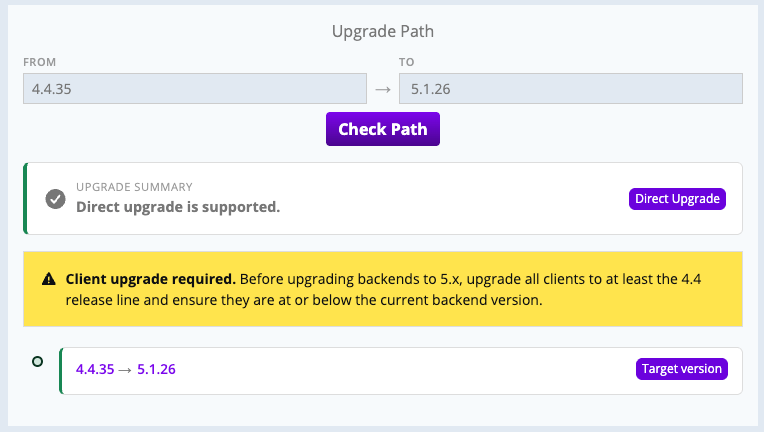
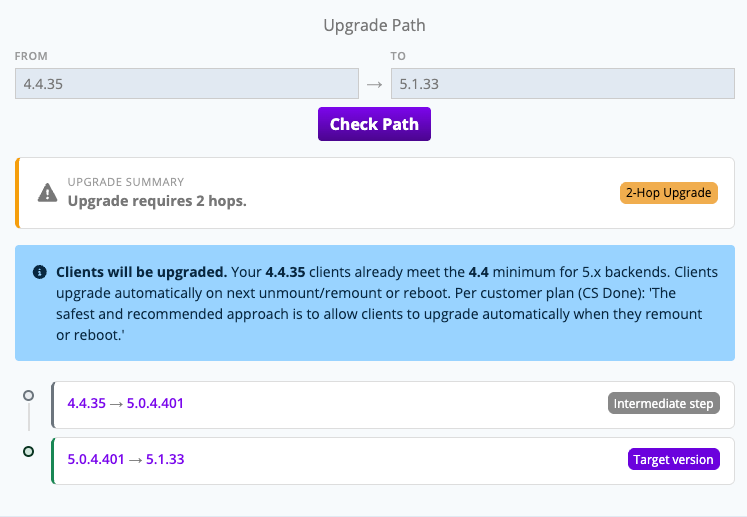
GITBOOK-329: get.weka.io: update images 5.1.33

diff --git a/planning-and-installation/bare-metal/obtaining-the-weka-install-file.md b/planning-and-installation/bare-metal/obtaining-the-weka-install-file.md
@@ -10,56 +10,49 @@ metaLinks:
 
 # Obtain the installation packages
 
-## Register to get.weka.io
+## Register with get.weka.io
 
-Create a [get.weka.io](https://get.weka.io/ui/dashboard) account before you download installation files. If you already have an account, skip this section.
+Register with [get.weka.io](https://get.weka.io/ui/dashboard) before downloading installation packages.
+
+**Before you begin:** Use an organization email address. Personal email addresses are not supported. Skip these steps if you already have a get.weka.io account.
 
 **Procedure**
 
-1. Go to the [get.weka.io](https://get.weka.io/ui/dashboard) download site, and select **Create an account.**
+1. Open [get.weka.io](https://get.weka.io/ui/dashboard), then select **Create an account**.
 
 <div data-with-frame="true"><img src="../../.gitbook/assets/get.weka.io.png" alt="Create an account" width="425"></div>
 
-The Send Registration Email page opens.
+2. Enter your organization email address. Select **I’m not a robot**, then select **Send Registration Email**.
+3. Open the registration email from WEKA. Select its confirmation link.
+4. Enter your email address, full name, and password. Then select **Create Account**.
 
-2\. Fill in your organization's email address (private mail is prohibited).\
-Select **I’m not a robot**, and then select **Send Registration Email.**
-
-3\. Check your inbox for a registration email from Weka.io.\
-To confirm your registration, select the link.\
-The Create Your Account page opens.
-
-4\. Fill in your email address, full name, and password. Then, select **Create Account**.
-
-Your request for access to [get.weka.io](http://get.weka.io) is sent to WEKA for review. Wait for a validation email. Once your registration is approved, you can sign in to [get.weka.io](http://get.weka.io).
+WEKA reviews your request. Sign in after you receive the approval email.
 
 ## Download the WEKA installation packages
 
-Download the package that matches your installation path.
+Download the package for your installation path.
 
-* Automated installation with WSA. Download the WSA image from [get.weka.io](https://get.weka.io/ui/dashboard).
-* Manual installation and configuration. Download the WEKA software tarball from [get.weka.io](https://get.weka.io/ui/dashboard).
+**Before you begin:** Register with get.weka.io and receive approval. Identify whether you install with WSA or manually.
 
-You can only sign in and download the packages if you are a registered user.
+**Procedure**
 
-**Procedure: Download from get.weka.io**
+1. Open [get.weka.io](https://get.weka.io/ui/dashboard), then sign in.
 
-1. Go to the [get.weka.io](https://get.weka.io/ui/dashboard) download site, and sign in with your registered account.
+The dashboard lists available installation packages.
 
-<div data-with-frame="true"><figure><img src="../../.gitbook/assets/get.weka_dashboard.png" alt=""><figcaption><p>get.weka.io dashboard</p></figcaption></figure></div>
+<div data-with-frame="true"><figure><img src="../../.gitbook/assets/get.weka_dashboard.png" alt="get.weka.io dashboard showing available installation packages"><figcaption><p>get.weka.io dashboard</p></figcaption></figure></div>
 
 2. Download the required package:
-   * Select the package from the dashboard.
-   * Or, select the **Releases** tab. Select the required release, then follow the download instructions.
+   * For automated installation, download the WSA image from the dashboard.
+   * For manual installation, select **Releases**, select the required release, then download the WEKA software tarball.
 
-The download-link token is intentionally blurred in the image.
+The download link includes an access token. The capture masks this token.
 
-<div data-with-frame="true"><figure><img src="../../.gitbook/assets/get.weka_releases.png" alt=""><figcaption><p>Releases download page</p></figcaption></figure></div>
+<div data-with-frame="true"><figure><img src="../../.gitbook/assets/get.weka_releases.png" alt="Releases page showing the WEKA software tarball download link"><figcaption><p>Releases download page</p></figcaption></figure></div>
 
-## What to do next?
+## Continue installation
 
-Depending on the installation path you follow, go to one of the following:
+Continue with the installation path that matches the downloaded package:
 
-Path A: [Install WSA](install-the-weka-cluster-using-the-wsa.md)
-
-Path B: [Install OS and WEKA software](manually-install-os-and-weka-on-servers/)
+* WSA image: [Install WSA](install-the-weka-cluster-using-the-wsa.md)
+* WEKA software tarball: [Install OS and WEKA software](manually-install-os-and-weka-on-servers/)

diff --git a/operation-guide/upgrading-weka-versions.md b/operation-guide/upgrading-weka-versions.md
@@ -48,7 +48,7 @@ WEKA uses a structured versioning scheme to indicate the scope and type of chang
 
 Verify that the upgrade path from your source version to the target version is supported. The **Upgrade Path** checker on [get.weka.io](https://get.weka.io) validates the path and indicates additional requirements, such as upgrading clients before the backends.
 
-<div data-with-frame="true"><figure><img src="../.gitbook/assets/check_upgrade_path.png" alt="" width="563"><figcaption><p>Check the upgrade path</p></figcaption></figure></div>
+<div data-with-frame="true"><figure><img src="../.gitbook/assets/check_upgrade_path.png" alt="" width="563"><figcaption><p>Check the upgrade path example</p></figcaption></figure></div>
 
 **Procedure**
 
@@ -58,6 +58,7 @@ Verify that the upgrade path from your source version to the target version is s
 4. Select **Check Path**.
 5. Review the upgrade summary:
    * **Direct Upgrade** indicates the path is supported.
+   * **2 Hops** indicates that the upgrade requires two sequential upgrades.
    * A warning indicates an additional requirement to complete before the upgrade, such as a client upgrade.
    * The path list indicates the recommended target version.
 
@@ -296,9 +297,9 @@ Use this method if the cluster environment has connectivity to [get.weka.io](htt
 
 1. From the Public Releases on the [get.weka.io](https://get.weka.io/ui/releases/), select the required release.
 2. Select the **Install** tab.
-3. From the backend server, run the `curl` command line as shown in the following example.
+3. From the backend server, run the `curl` command shown in this example.
 
-<figure><img src="../.gitbook/assets/get-weka-io-curl.png" alt=""><figcaption><p>Example: Install tab</p></figcaption></figure>
+<figure><img src="../.gitbook/assets/get-weka-io-curl.png" alt=""><figcaption><p>Example Install tab command</p></figcaption></figure>
 {% endtab %}
 
 {% tab title="Method C" %}
